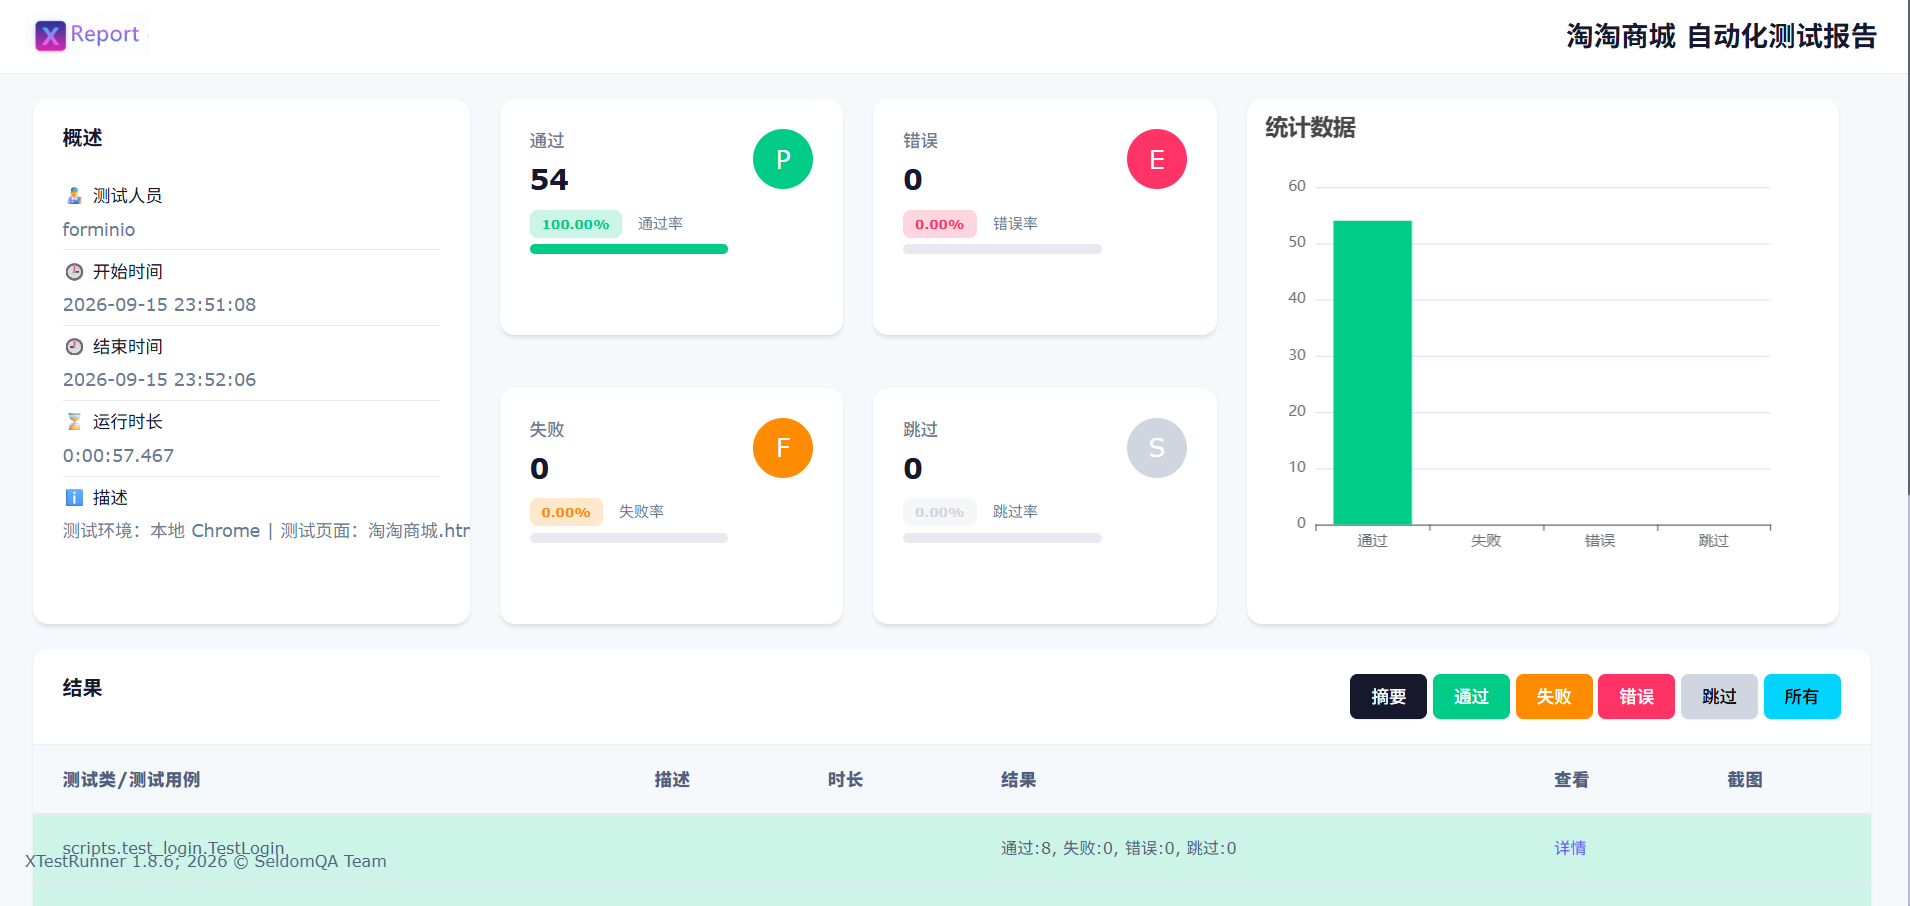
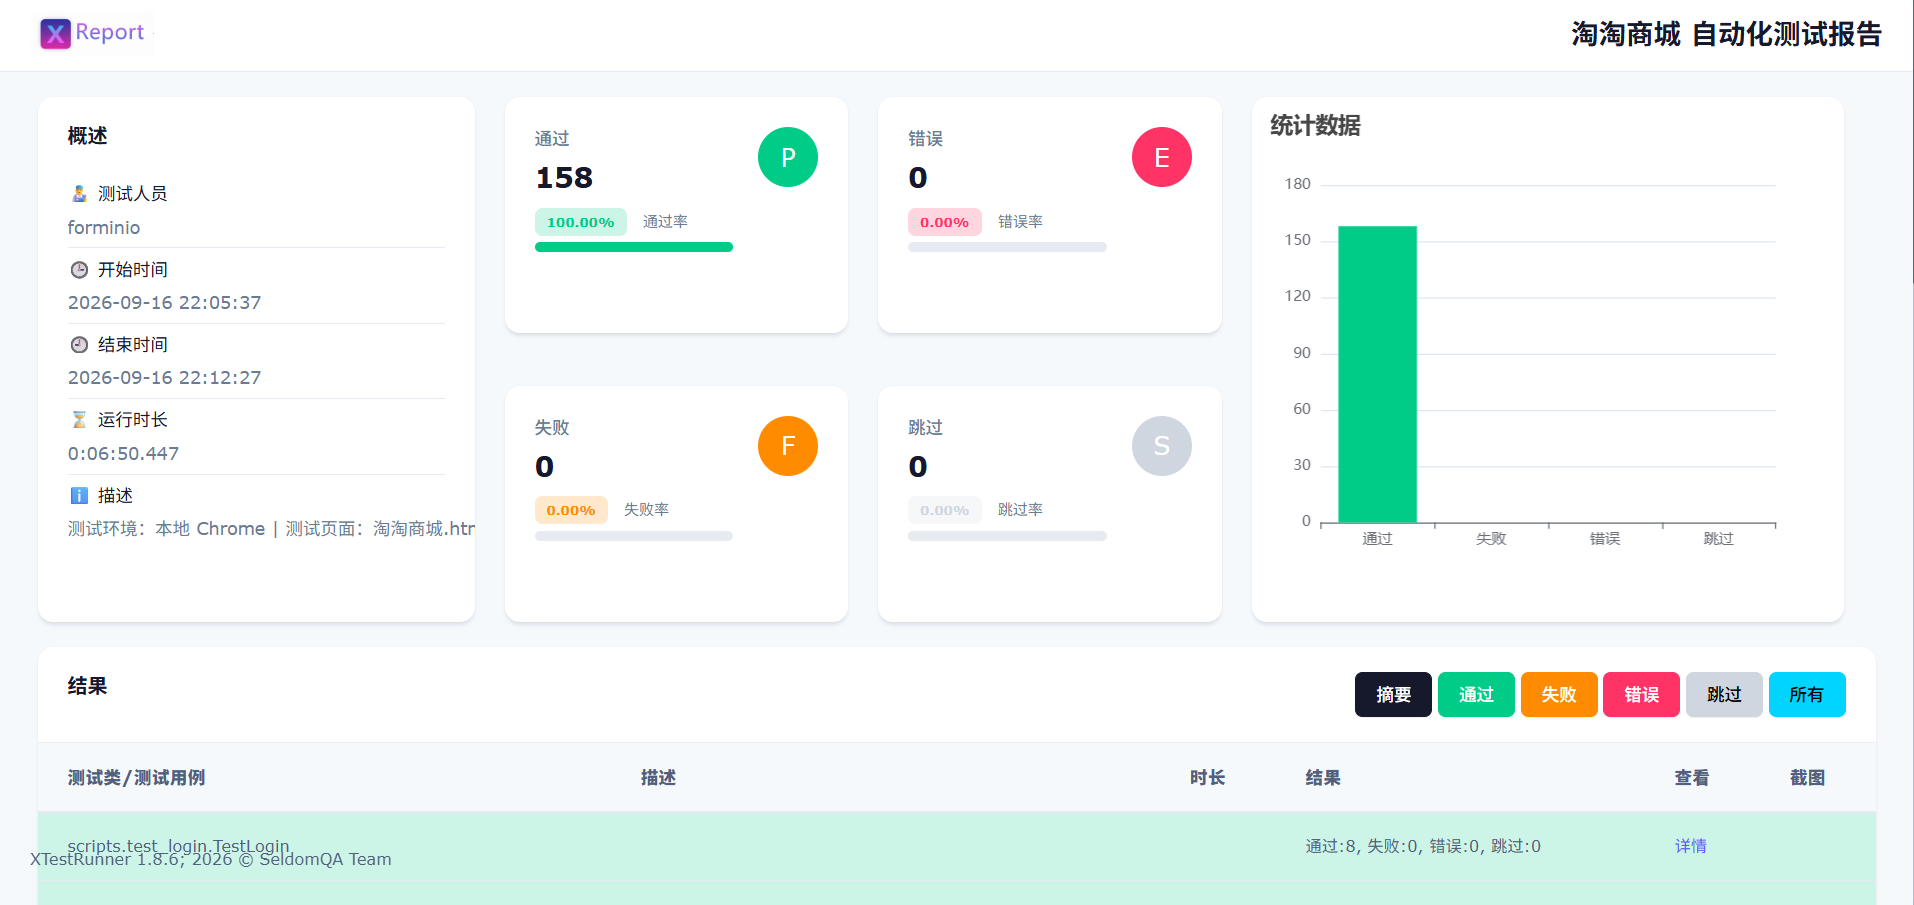
完善内容

diff --git a/README.md b/README.md
@@ -254,6 +254,8 @@ def page_get_pager_info(self):
 
 ![](result/report2.png)
 
+![](result/report3.png)
+
 ## 附录：几个核心文件
 
 <details>
